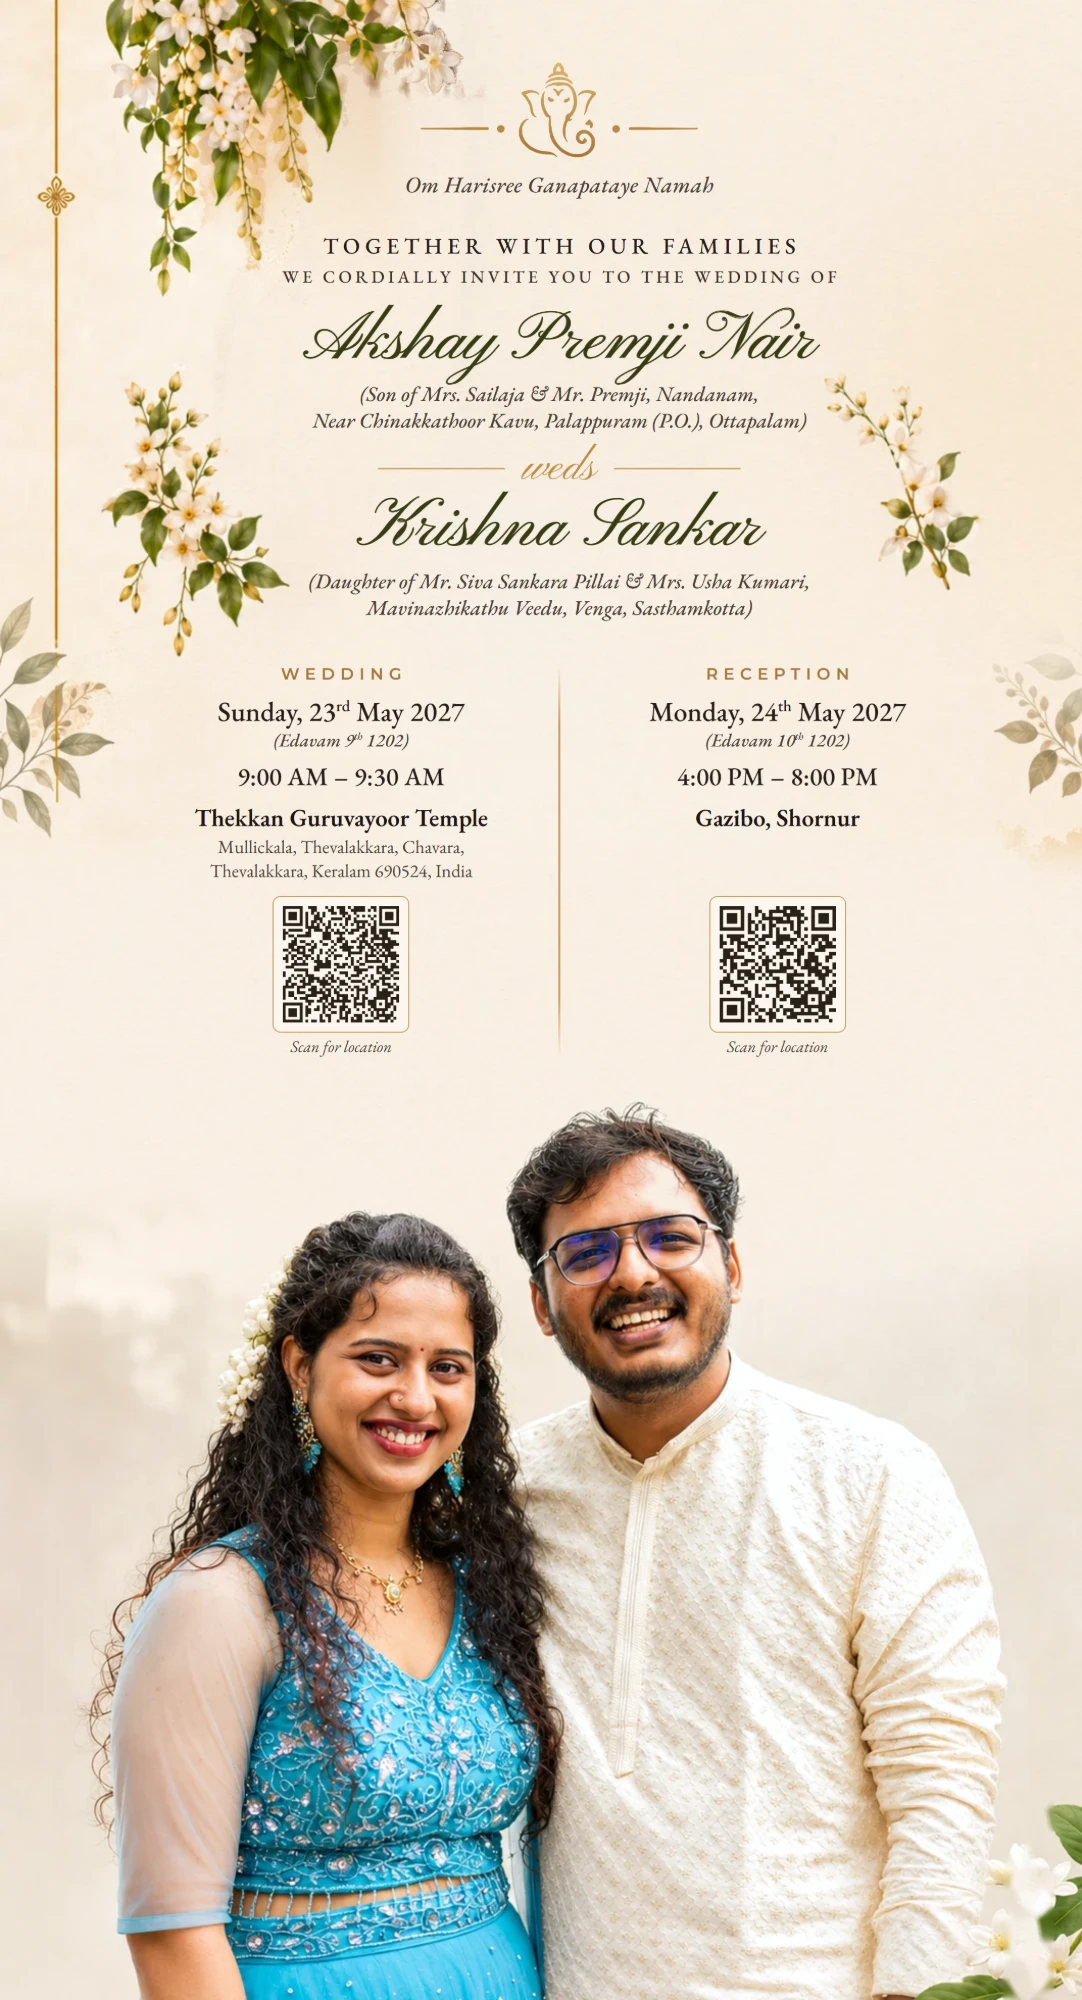
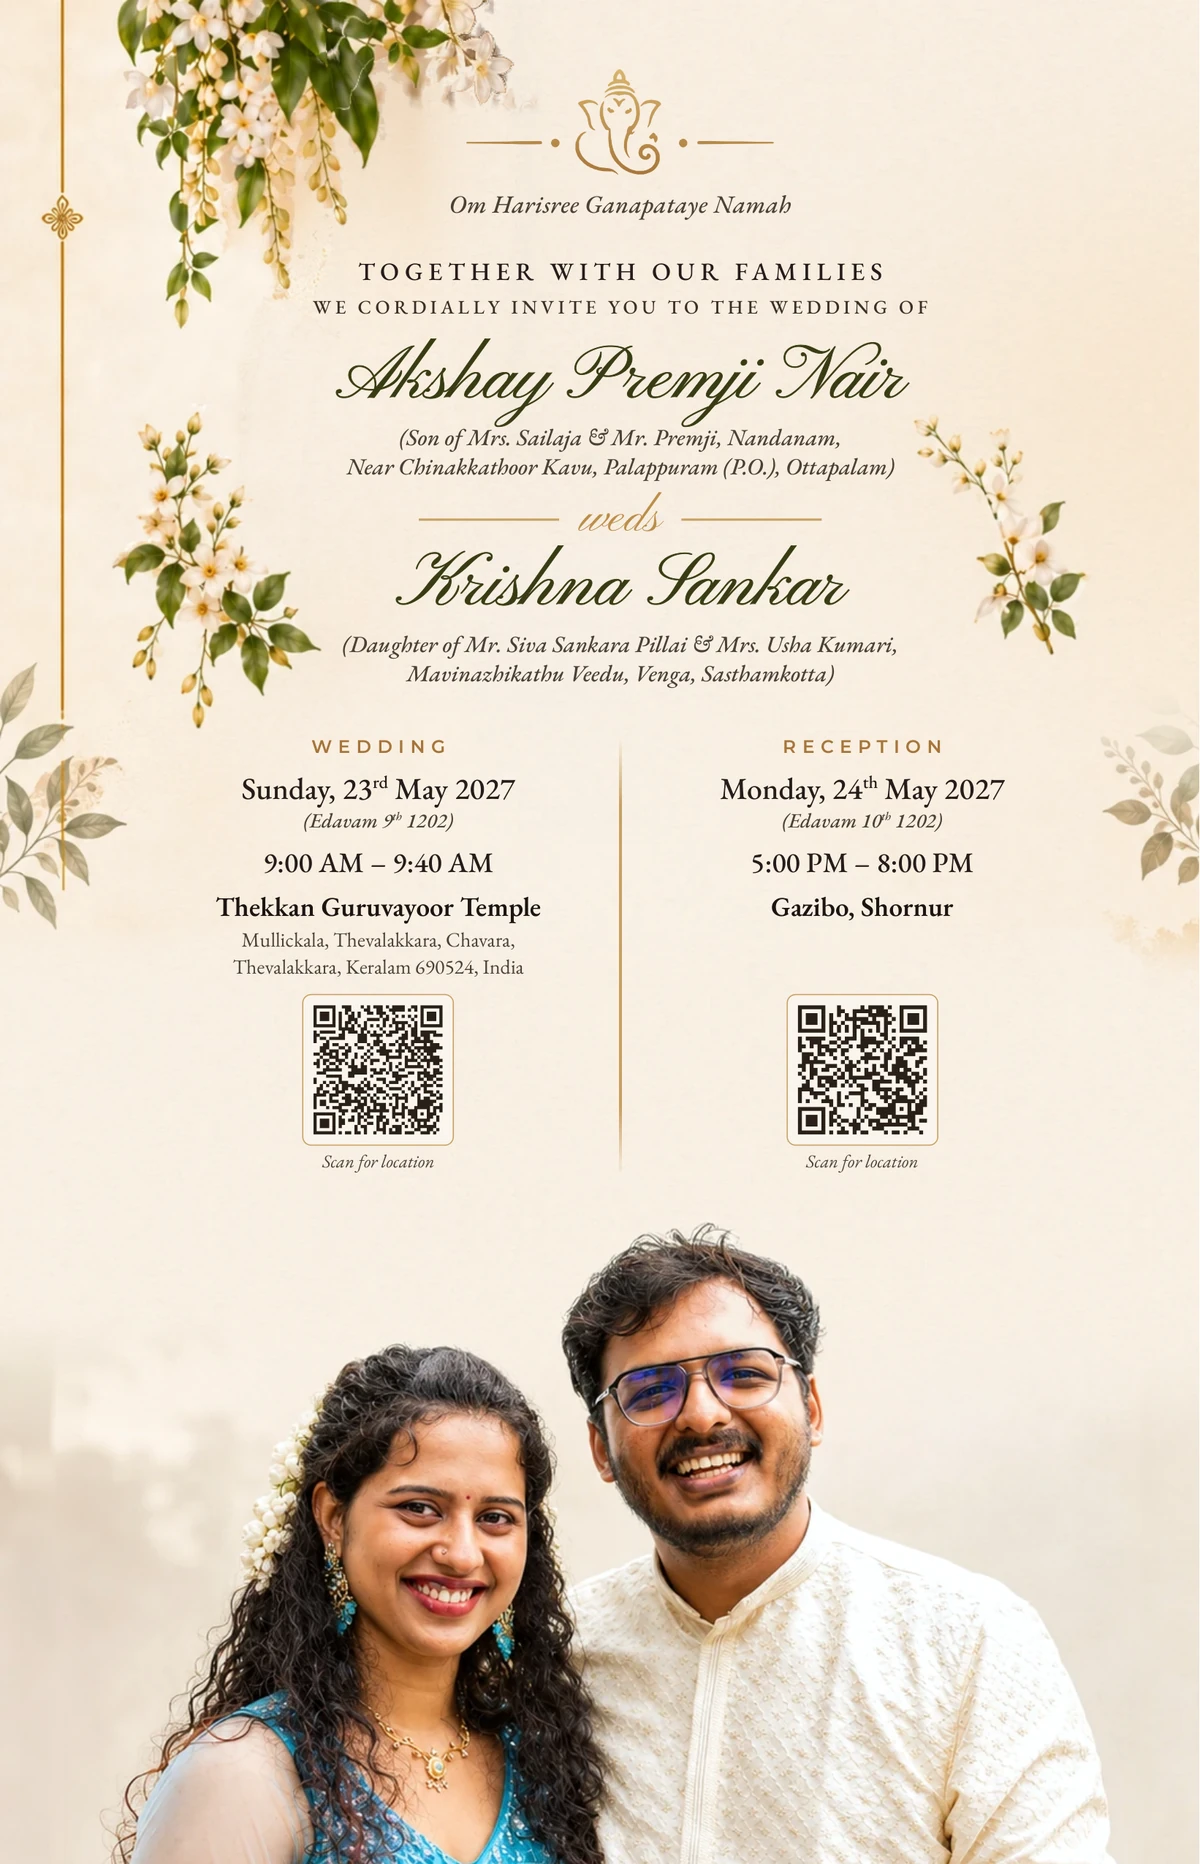
Update invitation card from final print PDF

diff --git a/index.html b/index.html
@@ -7,7 +7,7 @@
 <meta name="description" content="Together with our families — the wedding of Akshay Premji Nair & Krishna Sankar. 23 May 2027, Thekkan Guruvayoor Temple. Reception 24 May 2027, Gazebo, Shoranur.">
 <meta property="og:title" content="Akshay & Krishna · Wedding · 23 May 2027">
 <meta property="og:description" content="Two journeys, one beautiful story. Wedding 23 May 2027 · Reception 24 May 2027.">
-<meta property="og:image" content="invitation.webp?v=2">
+<meta property="og:image" content="invitation.webp?v=3">
 <meta property="og:type" content="website">
 <meta name="theme-color" content="#F6EEDC">
 <link rel="preconnect" href="https://fonts.googleapis.com">
@@ -405,10 +405,10 @@
     <h2 class="reveal">Our Invitation</h2>
     <svg class="orn reveal" viewBox="0 0 180 20" data-orn></svg>
     <div class="card-wrap reveal zoom">
-      <img class="card-img" id="cardImg" src="invitation.webp?v=2" alt="Wedding invitation card of Akshay Premji Nair and Krishna Sankar" loading="lazy">
+      <img class="card-img" id="cardImg" src="invitation.webp?v=3" alt="Wedding invitation card of Akshay Premji Nair and Krishna Sankar" loading="lazy">
     </div>
     <div class="btns reveal">
-      <a class="btn" href="invitation.webp?v=2" download="Akshay-Krishna-Wedding-Invitation.webp">
+      <a class="btn" href="invitation.webp?v=3" download="Akshay-Krishna-Wedding-Invitation.webp">
         <svg viewBox="0 0 24 24" fill="none" stroke="currentColor" stroke-width="2"><path d="M12 3v12m0 0l-5-5m5 5l5-5M4 21h16"/></svg>Download</a>
       <a class="btn" id="shareBtn" href="#">
         <svg viewBox="0 0 24 24" fill="none" stroke="currentColor" stroke-width="2"><circle cx="18" cy="5" r="3"/><circle cx="6" cy="12" r="3"/><circle cx="18" cy="19" r="3"/><path d="M8.6 13.5l6.8 4M15.4 6.5l-6.8 4"/></svg>Share</a>
@@ -495,7 +495,7 @@
   <svg width="18" height="18" viewBox="0 0 24 24" fill="none" stroke="currentColor" stroke-width="2"><path d="M6 15l6-6 6 6"/></svg>
 </a>
 
-<div id="lightbox"><img src="invitation.webp?v=2" alt="Wedding invitation, enlarged"></div>
+<div id="lightbox"><img src="invitation.webp?v=3" alt="Wedding invitation, enlarged"></div>
 
 <script>
 /* =========================================================
